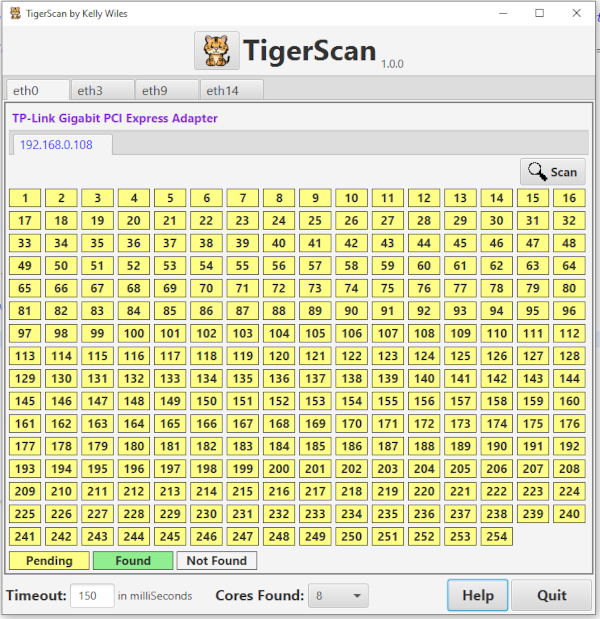
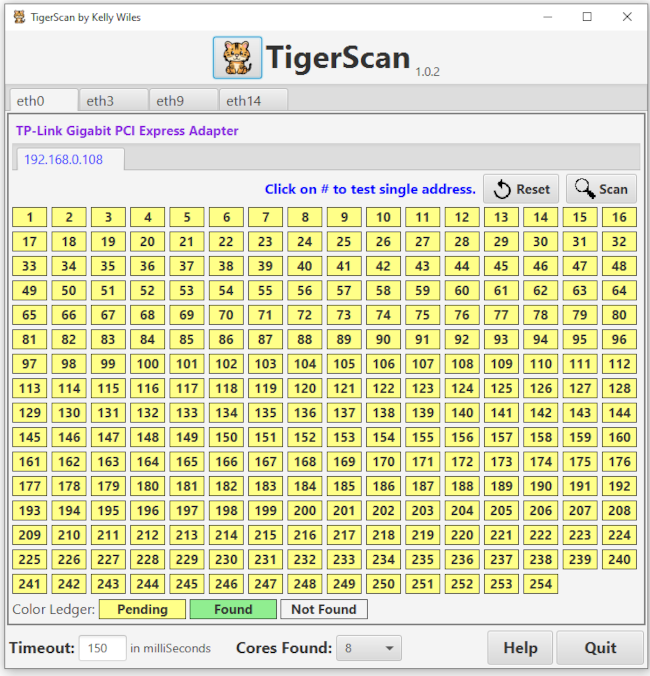
Added reset button, Added ablity to test a single address.

diff --git a/src/application/TigerScanController.java b/src/application/TigerScanController.java
@@ -1,10 +1,12 @@
 package application;
 
+import java.io.IOException;
 import java.net.InetAddress;
 import java.net.InterfaceAddress;
 import java.net.NetworkInterface;
 import java.net.SocketException;
 import java.net.URL;
+import java.net.UnknownHostException;
 import java.util.ArrayList;
 import java.util.Collections;
 import java.util.Enumeration;
@@ -18,6 +20,9 @@ import javafx.fxml.FXML;
 import javafx.fxml.Initializable;
 import javafx.geometry.Insets;
 import javafx.geometry.Pos;
+import javafx.scene.Cursor;
+import javafx.scene.Node;
+import javafx.scene.control.Alert.AlertType;
 import javafx.scene.control.Button;
 import javafx.scene.control.ChoiceBox;
 import javafx.scene.control.Label;
@@ -135,11 +140,11 @@ public class TigerScanController implements Initializable, RefreshScene {
 	        tg.ifAddrs.put(ifAddr.getName(), ifAddr);
 	        
 	        if (ifAddr.isLoopback() == false)
-	        	buildTab(ifAddr);
+	        	buildTab(netint, ifAddr);
         }
      }
     
-    void buildTab(IfAddr ifAddr) {
+    void buildTab(NetworkInterface iface, IfAddr ifAddr) {
     	
     	Tab tab = new Tab();
     	tab.setClosable(false);
@@ -221,6 +226,16 @@ public class TigerScanController implements Initializable, RefreshScene {
         		scanIP((Button)e.getSource());
         	});
         	
+        	Button btnReset = new Button("Reset");
+        	btnReset.setStyle("-fx-font-size: 15px;-fx-font-weight: bold;");
+    		btnReset.setGraphic(new ImageView(tg.imgReset));
+        	Tooltip tipReset = new Tooltip("Click to reset all addresses to pending.");
+        	tipReset.setStyle("-fx-font-size: 16px;");
+        	btnReset.setTooltip(tipReset);
+        	
+        	Label lblTxt = new Label("Click on # to test single address.");
+        	lblTxt.setStyle("-fx-font-size: 16px; -fx-font-weight: bold; -fx-text-fill: blue;");
+        	
 //        	ProgressBar pb = new ProgressBar();
 //        	pb.setProgress(0.0);
 //        	pb.setPrefWidth(600.0);
@@ -231,7 +246,8 @@ public class TigerScanController implements Initializable, RefreshScene {
         	HBox hb4 = new HBox();
         	
         	hb2.setPadding(new Insets(4));
-        	hb2.getChildren().add(btnScan);
+        	hb2.setSpacing(8.0);
+        	hb2.getChildren().addAll(lblTxt, btnReset, btnScan);
         	hb2.setAlignment(Pos.CENTER_RIGHT);
         	
         	vb2.getChildren().add(hb2);
@@ -246,8 +262,21 @@ public class TigerScanController implements Initializable, RefreshScene {
         		lbl.setAlignment(Pos.CENTER);
         		lbl.setPrefWidth(40.0);
         		lbl.setStyle("-fx-font-size: 15px; -fx-font-weight: bold; -fx-background-color: #ffff88; -fx-border-color: black;");
+        		lbl.setUserData(new TabInfo(ip, fp, ifAddr.getPrefixLen()));
+        		lbl.setOnMouseClicked((e) -> {
+        			Label l = (Label)e.getSource();
+        			getIpInfo(iface, l);
+        		});
         		fp.getChildren().add(lbl);
     		}
+        	
+        	btnReset.setOnAction(e -> {
+        		for (Node n : fp.getChildren()) {
+        			Label lbl = (Label)n;
+            		lbl.setStyle("-fx-font-size: 15px; -fx-font-weight: bold; -fx-background-color: #ffff88; -fx-border-color: black;");
+            		
+        		}
+        	});
     		
     		btnScan.setUserData(new TabInfo(ip, fp, ifAddr.getPrefixLen()));
     		
@@ -263,20 +292,32 @@ public class TigerScanController implements Initializable, RefreshScene {
     		
     		VBox.setVgrow(hb3, Priority.ALWAYS);
     		
+    		Label lblLedger = new Label("Color Ledger:");
+    		lblLedger.setStyle("-fx-font-size: 16px;");
+    		
     		Label lblPending = new Label("Pending");
     		lblPending.setPrefWidth(100.0);
     		lblPending.setAlignment(Pos.CENTER);
     		lblPending.setStyle("-fx-font-size: 15px; -fx-font-weight: bold; -fx-background-color: #ffff88; -fx-border-color: black;");
+    		Tooltip tipPending = new Tooltip("Address has not been scanned yet.");
+    		tipPending.setStyle("-fx-font-size: 16px;");
+    		lblPending.setTooltip(tipPending);
     		Label lblScanned = new Label("Found");
     		lblScanned.setPrefWidth(100.0);
     		lblScanned.setAlignment(Pos.CENTER);
     		lblScanned.setStyle("-fx-font-size: 15px; -fx-font-weight: bold; -fx-background-color: lightgreen; -fx-border-color: black;");
+    		Tooltip tipScanned = new Tooltip("Address has been scanned and was found.");
+    		tipScanned.setStyle("-fx-font-size: 16px;");
+    		lblScanned.setTooltip(tipScanned);
     		Label lblFound   = new Label("Not Found");
     		lblFound.setPrefWidth(100.0);
     		lblFound.setAlignment(Pos.CENTER);
     		lblFound.setStyle("-fx-font-size: 15px; -fx-font-weight: bold; -fx-border-color: black;");
+    		Tooltip tipNotFound = new Tooltip("Address has been scanned but did NOT responded.");
+    		tipNotFound.setStyle("-fx-font-size: 16px;");
+    		lblFound.setTooltip(tipNotFound);
     		
-    		hb4.getChildren().addAll(lblPending, lblScanned, lblFound);
+    		hb4.getChildren().addAll(lblLedger, lblPending, lblScanned, lblFound);
     		
     		hb4.setSpacing(4.0);
     		hb4.setAlignment(Pos.CENTER_LEFT);
@@ -294,7 +335,45 @@ public class TigerScanController implements Initializable, RefreshScene {
 		AnchorPane.setTopAnchor(vb1, 0.0);
 		AnchorPane.setLeftAnchor(vb1, 0.0);
 		AnchorPane.setRightAnchor(vb1, 0.0);
-    } 
+    }
+    
+    private void getIpInfo(NetworkInterface iface, Label lbl) {
+    	String octal = lbl.getText();
+    	
+    	TabInfo ti = (TabInfo)lbl.getUserData();
+    	String ip = ti.getIp();
+    	
+    	String[] a = ip.split("\\.");
+    	
+    	String addr = a[0] + "." + a[1] + "." + a[2] + "." + octal;
+    	
+    	Stage stage = (Stage)lbl.getScene().getWindow();
+    	stage.getScene().setCursor(Cursor.WAIT);
+    	
+		new Thread(() -> {
+			try {
+				int timeout = 0;
+		    	try {
+		    		timeout = Integer.parseInt(tfTimeout.getText());
+		    	}  catch (NumberFormatException nfe) {
+		    		tg.showAlert("User Error", "Timeout is invalid.", AlertType.ERROR, false);
+		    		return;
+		    	}
+		    	
+				InetAddress inet = InetAddress.getByName(addr);
+				if (inet.isReachable(timeout) == true)
+	    			lbl.setStyle("-fx-font-size: 15px; -fx-font-weight: bold; -fx-background-color: lightgreen; -fx-border-color: black;");
+	    		else
+	    			lbl.setStyle("-fx-font-size: 15px; -fx-font-weight: bold; -fx-border-color: black;");
+				
+				stage.getScene().setCursor(Cursor.DEFAULT);
+			} catch (UnknownHostException e) {
+				e.printStackTrace();
+			} catch (IOException e) {
+				e.printStackTrace();
+			}
+		}).start();
+    }
     
     private void scanIP(Button scan) {
     	if (scan == null)

diff --git a/src/application/IpInfoController.java b/src/application/IpInfoController.java
@@ -1,0 +1,72 @@
+package application;
+
+import java.net.URL;
+import java.util.ResourceBundle;
+
+import javafx.event.ActionEvent;
+import javafx.fxml.FXML;
+import javafx.fxml.Initializable;
+import javafx.scene.control.Button;
+import javafx.scene.control.Label;
+import javafx.scene.layout.AnchorPane;
+import javafx.stage.Stage;
+
+public class IpInfoController implements Initializable {
+
+    @FXML
+    private AnchorPane aPane;
+
+    @FXML
+    private Button btnClose;
+
+    @FXML
+    private Label lblIpv4Address;
+
+    @FXML
+    private Label lblIpv4Broadcast;
+
+    @FXML
+    private Label lblIpv4Mask;
+
+    @FXML
+    private Label lblMacAddress;
+
+    @FXML
+    private Label lblVendorId;
+
+    @FXML
+    void doBtnClose(ActionEvent event) {
+    	Stage stage = (Stage) aPane.getScene().getWindow();
+        stage.close();
+    }
+
+	@Override
+	public void initialize(URL arg0, ResourceBundle arg1) {
+		
+	}
+	
+	public Stage getStage() {
+    	return (Stage)aPane.getScene().getWindow();
+    }
+
+	public void setLblIpv4Address(String txt) {
+		this.lblIpv4Address.setText(txt);
+	}
+
+	public void setLblIpv4Broadcast(String txt) {
+		this.lblIpv4Broadcast.setText(txt);
+	}
+
+	public void setLblIpv4Mask(String txt) {
+		this.lblIpv4Mask.setText(txt);
+	}
+
+	public void setLblMacAddress(String txt) {
+		this.lblMacAddress.setText(txt);
+	}
+
+	public void setLblVendorId(String txt) {
+		this.lblVendorId.setText(txt);
+	}
+
+}

diff --git a/src/application/TsGlobal.java b/src/application/TsGlobal.java
@@ -34,7 +34,7 @@ private static TsGlobal singleton = null;
 	}
 	
 	private void initGlobals() {
-		appVersion = "1.0.1";
+		appVersion = "1.0.2";
 		
 		sceneNav = new SceneNav();
 		
@@ -46,6 +46,9 @@ private static TsGlobal singleton = null;
 		
 		InputStream stopImg = getClass().getResourceAsStream("/images/stop_hand.png");
 		imgStop = new Image(stopImg, 24, 24, false, false);
+		
+		InputStream resetImg = getClass().getResourceAsStream("/images/reset.png");
+		imgReset = new Image(resetImg, 24, 24, false, false);
 	}
 	
 	public String appVersion = null;
@@ -54,6 +57,7 @@ private static TsGlobal singleton = null;
 	
 	public Image imgScan = null;
     public Image imgStop = null;
+    public Image imgReset = null;
 	
 	Alert alert = null;
 	public int timeout = 150;
